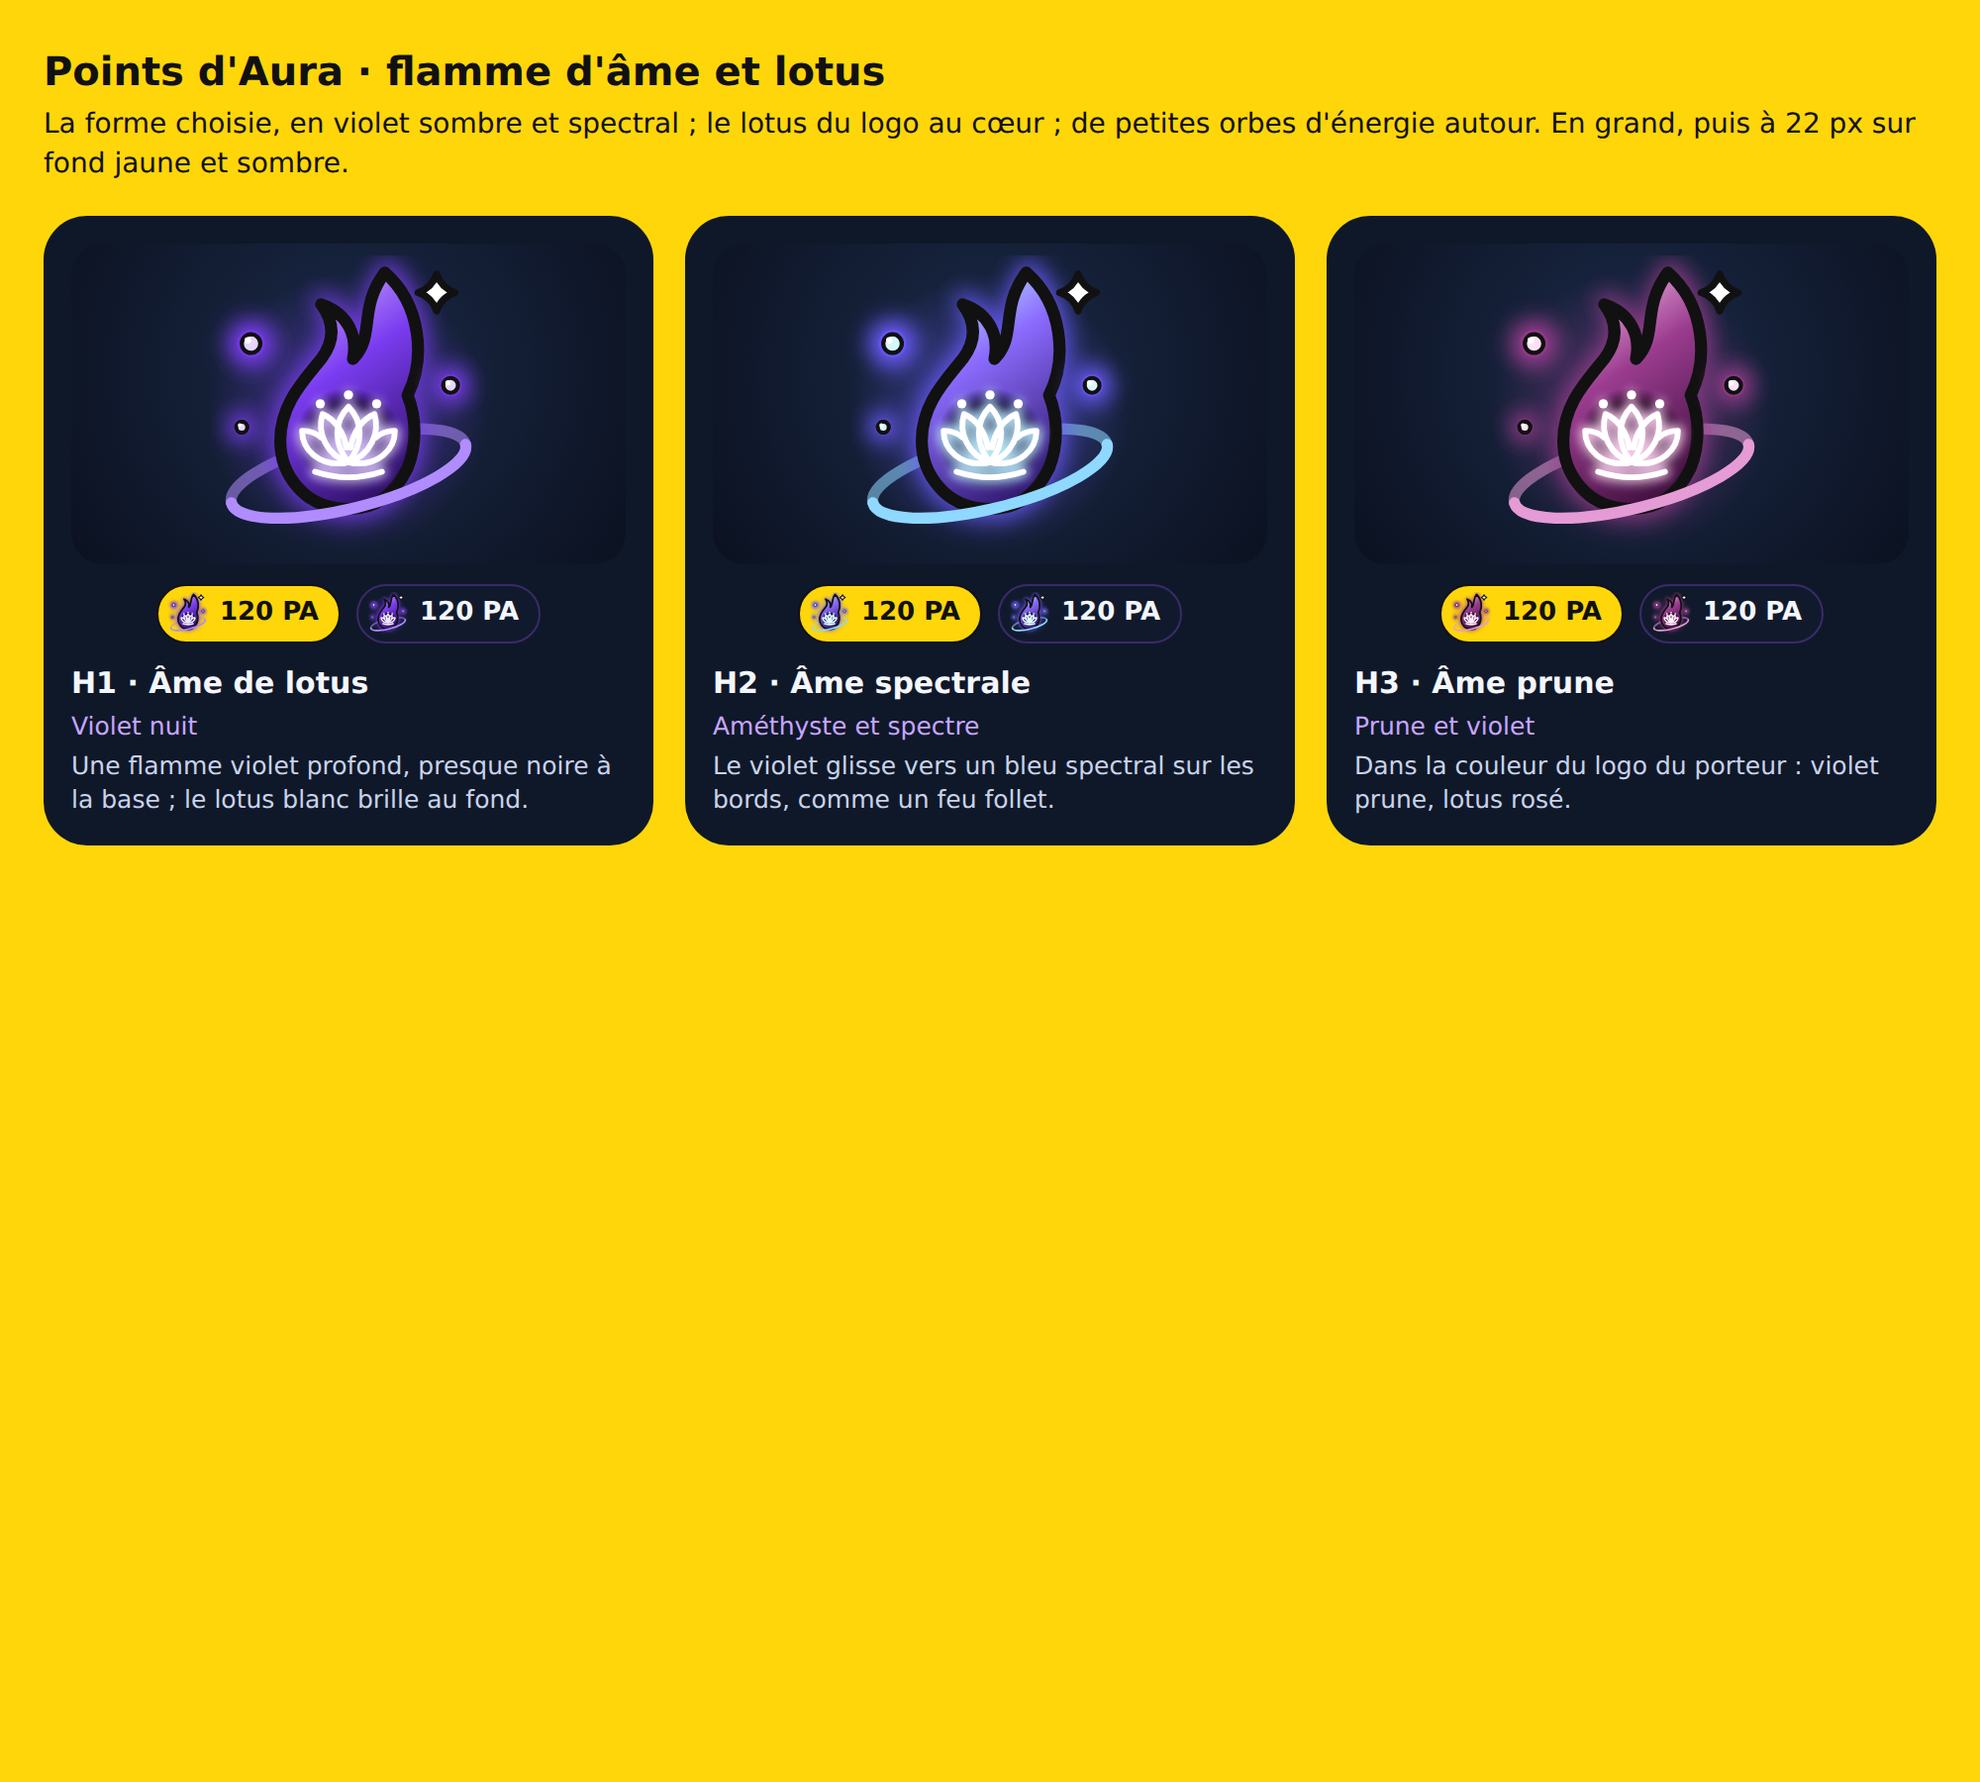
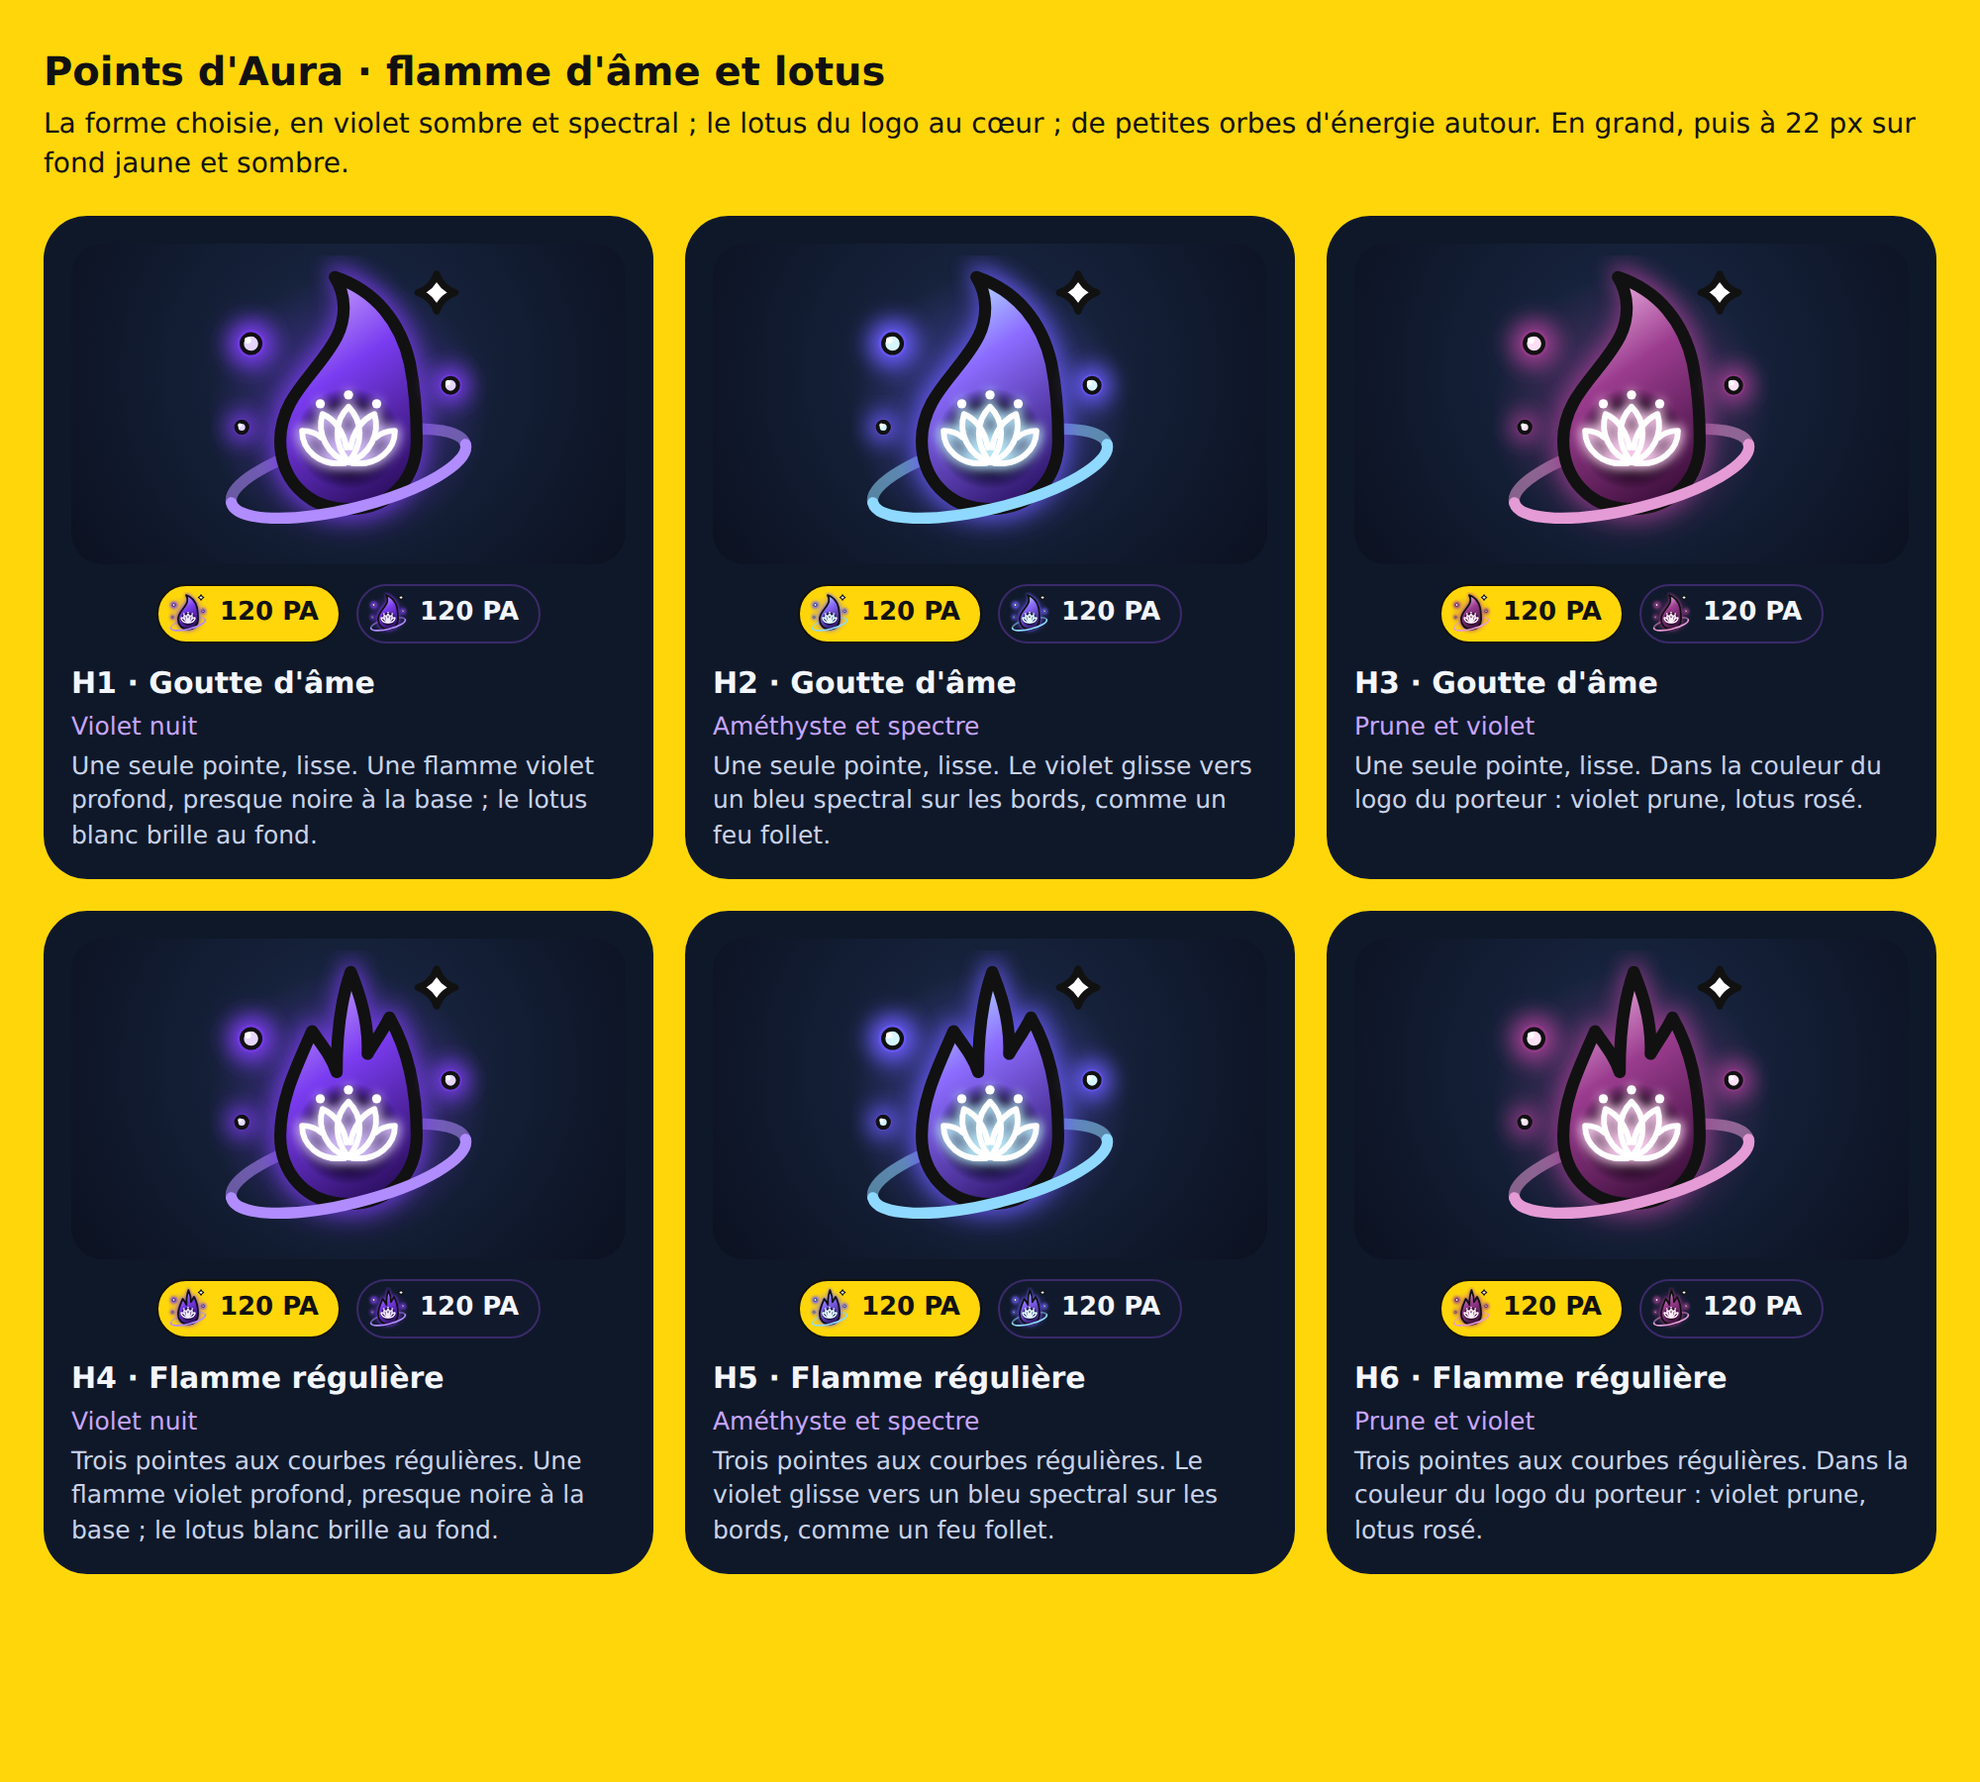
PA : lotus sans barre, contour de flamme régulier (goutte d'âme ou flamme à trois pointes)
Claude-Session: https://claude.ai/code/session_01SSwv2Y1qPbttjAaeQe6b6x

diff --git a/tools/brand/pa/planche-lotus.html b/tools/brand/pa/planche-lotus.html
@@ -8,8 +8,14 @@ figcaption{display:flex;flex-direction:column;gap:2px}figcaption b{font-size:15p
 <h1>Points d'Aura · flamme d'âme et lotus</h1><p>La forme choisie, en violet sombre et spectral ; le lotus du logo au cœur ; de petites orbes d'énergie autour. En grand, puis à 22 px sur fond jaune et sombre.</p>
 <main><figure><div class="big"><img src="pa-h1.svg" alt=""></div>
 <div class="row"><span class="pill y"><img src="pa-h1.svg" alt="">120 PA</span><span class="pill d"><img src="pa-h1.svg" alt="">120 PA</span></div>
-<figcaption><b>H1 · Âme de lotus</b><span>Violet nuit</span><em>Une flamme violet profond, presque noire à la base ; le lotus blanc brille au fond.</em></figcaption></figure><figure><div class="big"><img src="pa-h2.svg" alt=""></div>
+<figcaption><b>H1 · Goutte d'âme</b><span>Violet nuit</span><em>Une seule pointe, lisse. Une flamme violet profond, presque noire à la base ; le lotus blanc brille au fond.</em></figcaption></figure><figure><div class="big"><img src="pa-h2.svg" alt=""></div>
 <div class="row"><span class="pill y"><img src="pa-h2.svg" alt="">120 PA</span><span class="pill d"><img src="pa-h2.svg" alt="">120 PA</span></div>
-<figcaption><b>H2 · Âme spectrale</b><span>Améthyste et spectre</span><em>Le violet glisse vers un bleu spectral sur les bords, comme un feu follet.</em></figcaption></figure><figure><div class="big"><img src="pa-h3.svg" alt=""></div>
+<figcaption><b>H2 · Goutte d'âme</b><span>Améthyste et spectre</span><em>Une seule pointe, lisse. Le violet glisse vers un bleu spectral sur les bords, comme un feu follet.</em></figcaption></figure><figure><div class="big"><img src="pa-h3.svg" alt=""></div>
 <div class="row"><span class="pill y"><img src="pa-h3.svg" alt="">120 PA</span><span class="pill d"><img src="pa-h3.svg" alt="">120 PA</span></div>
-<figcaption><b>H3 · Âme prune</b><span>Prune et violet</span><em>Dans la couleur du logo du porteur : violet prune, lotus rosé.</em></figcaption></figure></main></html>
+<figcaption><b>H3 · Goutte d'âme</b><span>Prune et violet</span><em>Une seule pointe, lisse. Dans la couleur du logo du porteur : violet prune, lotus rosé.</em></figcaption></figure><figure><div class="big"><img src="pa-h4.svg" alt=""></div>
+<div class="row"><span class="pill y"><img src="pa-h4.svg" alt="">120 PA</span><span class="pill d"><img src="pa-h4.svg" alt="">120 PA</span></div>
+<figcaption><b>H4 · Flamme régulière</b><span>Violet nuit</span><em>Trois pointes aux courbes régulières. Une flamme violet profond, presque noire à la base ; le lotus blanc brille au fond.</em></figcaption></figure><figure><div class="big"><img src="pa-h5.svg" alt=""></div>
+<div class="row"><span class="pill y"><img src="pa-h5.svg" alt="">120 PA</span><span class="pill d"><img src="pa-h5.svg" alt="">120 PA</span></div>
+<figcaption><b>H5 · Flamme régulière</b><span>Améthyste et spectre</span><em>Trois pointes aux courbes régulières. Le violet glisse vers un bleu spectral sur les bords, comme un feu follet.</em></figcaption></figure><figure><div class="big"><img src="pa-h6.svg" alt=""></div>
+<div class="row"><span class="pill y"><img src="pa-h6.svg" alt="">120 PA</span><span class="pill d"><img src="pa-h6.svg" alt="">120 PA</span></div>
+<figcaption><b>H6 · Flamme régulière</b><span>Prune et violet</span><em>Trois pointes aux courbes régulières. Dans la couleur du logo du porteur : violet prune, lotus rosé.</em></figcaption></figure></main></html>

diff --git a/tools/brand/make_pa_lotus.py b/tools/brand/make_pa_lotus.py
@@ -16,14 +16,37 @@ from pathlib import Path
 
 sys.path.insert(0, str(Path(__file__).parent))
 from make_pa_proposals import grad, rad, spark, svg  # noqa: E402
-from make_pa_soul import halo, soul  # noqa: E402
+from make_pa_soul import halo  # noqa: E402
 
 OUT = Path(__file__).with_name("pa")
 
+# Flamme d'âme redessinée (2026-10-28, porteur : « des traits plus réguliers ») : corps rond, une seule pointe qui
+# s'enroule doucement vers la gauche, courbes continues sans cassure. Unités : corps centré en 0, 0, environ 30 × 51.
+SOUL2 = [("M", [(0, 18)]),
+         ("C", [(-9.5, 18), (-15, 11), (-15, 3)]), ("C", [(-15, -7), (-6.5, -12), (-2.5, -20)]),
+         ("C", [(-0.5, -24), (-0.5, -29), (-3, -33)]), ("C", [(6, -30), (11.5, -23), (13.5, -14)]),
+         ("C", [(14.6, -8.5), (15, -2.5), (15, 3)]), ("C", [(15, 11), (9.5, 18), (0, 18)])]
+
+
+# Variante « flamme régulière » : trois pointes (gauche, centre plus haute, droite) aux courbes régulières.
+SOUL3 = [("M", [(0, 18)]),
+         ("C", [(-9.5, 18), (-15, 11), (-15, 3)]), ("C", [(-15, -5), (-11.5, -12), (-8, -20)]),
+         ("C", [(-5.5, -16.5), (-3.5, -14), (-2.6, -11)]), ("C", [(-2.6, -18), (-2, -26), (0.5, -33)]),
+         ("C", [(3, -27), (4.5, -21), (4.2, -15)]), ("C", [(6, -18), (7.8, -20.5), (9, -23)]),
+         ("C", [(13, -16), (15, -7), (15, 3)]), ("C", [(15, 11), (9.5, 18), (0, 18)])]
+SHAPE = {"goutte": SOUL2, "flamme": SOUL3}
+
+
+def soul(cx, cy, k, fill, stroke="#111111", sw=2.6, shape="goutte"):
+    d = ""
+    for cmd, pts in SHAPE[shape]:
+        d += cmd + " ".join(f"{cx + x * k:.2f} {cy + y * k:.2f}" for x, y in pts)
+    return f'<path d="{d}Z" fill="{fill}" stroke="{stroke}" stroke-width="{sw}" stroke-linejoin="round" stroke-linecap="round"/>'
+
 
 def lotus(cx, cy, k, color, w):
-    # Lotus au trait, en unités (environ 24 × 22) : pétale central, deux pétales intérieurs, deux extérieurs, base
-    # en arc, trois points au-dessus (d'après le logo du porteur).
+    # Lotus au trait, en unités (environ 24 × 20) : pétale central, deux pétales intérieurs, deux extérieurs, trois
+    # points au-dessus (d'après le logo du porteur ; la barre de base est retirée, 2026-10-28).
     def P(x, y):
         return f"{cx + x * k:.2f} {cy + y * k:.2f}"
     paths = [
@@ -32,7 +55,6 @@ def lotus(cx, cy, k, color, w):
         f"M{P(0, 7)} C{P(6, 5)} {P(8.5, -1)} {P(7, -6)} C{P(3.5, -4.5)} {P(1.2, -1)} {P(0.6, 3)}",
         f"M{P(-1, 7.2)} C{P(-8, 8)} {P(-12.5, 3.5)} {P(-12.5, -1.5)} C{P(-10.5, -1.5)} {P(-8.6, -0.8)} {P(-7.4, 0.3)}",
         f"M{P(1, 7.2)} C{P(8, 8)} {P(12.5, 3.5)} {P(12.5, -1.5)} C{P(10.5, -1.5)} {P(8.6, -0.8)} {P(7.4, 0.3)}",
-        f"M{P(-9, 9.5)} Q{P(0, 12.5)} {P(9, 9.5)}",
     ]
     out = "".join(f'<path d="{d}" fill="none" stroke="{color}" stroke-width="{w}" stroke-linecap="round" stroke-linejoin="round"/>' for d in paths)
     for x, y in ((0, -11.2), (-7.6, -8.8), (7.6, -8.8)):
@@ -48,7 +70,7 @@ def orb(x, y, r, core, glow):
             f'<circle cx="{x - r * 0.35}" cy="{y - r * 0.35}" r="{r * 0.35}" fill="#FFFFFF"/>')
 
 
-def lotus_icon(title, stops, ring, glow, core_dark, lotus_color, orb_core):
+def lotus_icon(title, stops, ring, glow, core_dark, lotus_color, orb_core, shape="goutte"):
     defs = ('<filter id="gl" x="-60%" y="-60%" width="220%" height="220%"><feGaussianBlur stdDeviation="2.4"/></filter>'
             '<filter id="lg" x="-30%" y="-30%" width="160%" height="160%"><feGaussianBlur stdDeviation="1.1"/></filter>'
             + rad("au", [(0, glow, 0.7), (0.6, glow, 0.22), (1, glow, 0)]) + grad("fl", stops)
@@ -56,8 +78,8 @@ def lotus_icon(title, stops, ring, glow, core_dark, lotus_color, orb_core):
     body = '<circle cx="32" cy="34" r="30" fill="url(#au)"/>'
     body += halo(32, 47, 26, 7.5, -14, ring, "back")
     # Aura fantôme floue, puis la flamme d'âme.
-    body += soul(32, 37, 1.02, glow, glow, 3).replace('/>', ' filter="url(#gl)" opacity="0.85"/>')
-    body += soul(32, 37, 0.98, "url(#fl)")
+    body += soul(32, 37, 1.02, glow, glow, 3, shape).replace('/>', ' filter="url(#gl)" opacity="0.85"/>')
+    body += soul(32, 37, 0.98, "url(#fl)", shape=shape)
     # Cœur sombre au fond de la flamme, et le lotus qui y brille (trait lumineux + lueur).
     body += '<ellipse cx="32" cy="39.5" rx="11.5" ry="11" fill="url(#co)"/>'
     body += f'<g filter="url(#lg)" opacity="0.95">{lotus(32, 39, 0.8, lotus_color, 2.4)}</g>'
@@ -69,14 +91,19 @@ def lotus_icon(title, stops, ring, glow, core_dark, lotus_color, orb_core):
     return svg(title, defs, body)
 
 
-V = {
-    "h1": ("Âme de lotus", "Violet nuit", "Une flamme violet profond, presque noire à la base ; le lotus blanc brille au fond.",
-           lotus_icon("PA · Âme de lotus", [(0, "#C9A6FF"), (0.4, "#7A3CF0"), (1, "#2A0E5C")], "#B08CFF", "#7A3CF0", "#12052B", "#D9C2FF", "#E6D6FF")),
-    "h2": ("Âme spectrale", "Améthyste et spectre", "Le violet glisse vers un bleu spectral sur les bords, comme un feu follet.",
-           lotus_icon("PA · Âme spectrale", [(0, "#B9E9FF"), (0.35, "#8C6CFF"), (1, "#2B1466")], "#8FD8FF", "#6C5CFF", "#0F0A2E", "#BFEFFF", "#D6F6FF")),
-    "h3": ("Âme prune", "Prune et violet", "Dans la couleur du logo du porteur : violet prune, lotus rosé.",
-           lotus_icon("PA · Âme prune", [(0, "#F3B8E6"), (0.4, "#9B3C8F"), (1, "#3A0E3A")], "#E59BD6", "#9B3C8F", "#1E061E", "#FFD1F2", "#FFE1F6")),
-}
+TINTS = [
+    ("Violet nuit", "Une flamme violet profond, presque noire à la base ; le lotus blanc brille au fond.",
+     [(0, "#C9A6FF"), (0.4, "#7A3CF0"), (1, "#2A0E5C")], "#B08CFF", "#7A3CF0", "#12052B", "#D9C2FF", "#E6D6FF"),
+    ("Améthyste et spectre", "Le violet glisse vers un bleu spectral sur les bords, comme un feu follet.",
+     [(0, "#B9E9FF"), (0.35, "#8C6CFF"), (1, "#2B1466")], "#8FD8FF", "#6C5CFF", "#0F0A2E", "#BFEFFF", "#D6F6FF"),
+    ("Prune et violet", "Dans la couleur du logo du porteur : violet prune, lotus rosé.",
+     [(0, "#F3B8E6"), (0.4, "#9B3C8F"), (1, "#3A0E3A")], "#E59BD6", "#9B3C8F", "#1E061E", "#FFD1F2", "#FFE1F6"),
+]
+V = {}
+for i, (shape, label) in enumerate((("goutte", "Goutte d'âme"), ("flamme", "Flamme régulière"))):
+    for j, (color, idea, stops, ring, glow, dark, lot, orbc) in enumerate(TINTS):
+        V["h%d" % (i * 3 + j + 1)] = (label, color, ("Une seule pointe, lisse. " if shape == "goutte" else "Trois pointes aux courbes régulières. ") + idea,
+                                      lotus_icon("PA · " + label + " · " + color, stops, ring, glow, dark, lot, orbc, shape))
 
 
 def main():

diff --git a/docs/03-journal-decisions.md b/docs/03-journal-decisions.md
@@ -9,7 +9,7 @@
 ## 2026-10-28 (suite) — Méga-évolutions à 2 500 PA validées, 500 scans au Grand maître mondial, pastille PA décalée, propositions d'illustration des PA
 
 - **Décisions du porteur :** 2 500 PA par méga-évolution **validé** ; item « Deluxe » à définir plus tard ; Grand maître mondial Pokémon : **500 scans par jour** au lieu de 100.
-- **Fait :** pastille des PA descendue de 7 px dans l'en-tête (elle chevauchait celle des PK) ; 6 propositions d'illustration des PA (`tools/brand/make_pa_proposals.py`, `tools/brand/pa/planche.html`) autour d'une flamme ou d'une âme au plus profond de l'être (chakra, nen) : A Âme ardente (violet), B Chakra (or), C Nen (vert émeraude), D Cœur d'éveil (bleu glacier), E Flamme d'évolution (rouge et or, spirale), F Esprit (rose magenta) ; **choix du porteur attendu** avant de remplacer `web/img/brand/pa.svg`. Le porteur retient E (spirale) et F (halo) et demande un style « flamme d'âme » : 2ᵉ série de 6 variantes G1 à G6 (`tools/brand/make_pa_soul.py`, `tools/brand/pa/planche-soul.html`) : flamme d'âme lumineuse, spirale au cœur, halo autour, flammèches ; rouge et or, rose, violet, bleu spectral, sphère en orbite, or vers rose. Puis, forme gardée, 3ᵉ série (`tools/brand/make_pa_lotus.py`, `tools/brand/pa/planche-lotus.html`) : violet sombre et spectral, **lotus du logo du porteur** au cœur à la place de la spirale, petites orbes d'énergie à la place des flammèches, halo autour de la base ; H1 violet nuit, H2 améthyste et spectre, H3 prune ; choix attendu.
+- **Fait :** pastille des PA descendue de 7 px dans l'en-tête (elle chevauchait celle des PK) ; 6 propositions d'illustration des PA (`tools/brand/make_pa_proposals.py`, `tools/brand/pa/planche.html`) autour d'une flamme ou d'une âme au plus profond de l'être (chakra, nen) : A Âme ardente (violet), B Chakra (or), C Nen (vert émeraude), D Cœur d'éveil (bleu glacier), E Flamme d'évolution (rouge et or, spirale), F Esprit (rose magenta) ; **choix du porteur attendu** avant de remplacer `web/img/brand/pa.svg`. Le porteur retient E (spirale) et F (halo) et demande un style « flamme d'âme » : 2ᵉ série de 6 variantes G1 à G6 (`tools/brand/make_pa_soul.py`, `tools/brand/pa/planche-soul.html`) : flamme d'âme lumineuse, spirale au cœur, halo autour, flammèches ; rouge et or, rose, violet, bleu spectral, sphère en orbite, or vers rose. Puis, forme gardée, 3ᵉ série (`tools/brand/make_pa_lotus.py`, `tools/brand/pa/planche-lotus.html`) : violet sombre et spectral, **lotus du logo du porteur** au cœur à la place de la spirale, petites orbes d'énergie à la place des flammèches, halo autour de la base ; H1 violet nuit, H2 améthyste et spectre, H3 prune ; puis barre du lotus retirée et contour redessiné en courbes régulières, en deux formes : « goutte d'âme » à une pointe (H1 à H3) et « flamme régulière » à trois pointes (H4 à H6) ; choix attendu.
 
 ---
 
